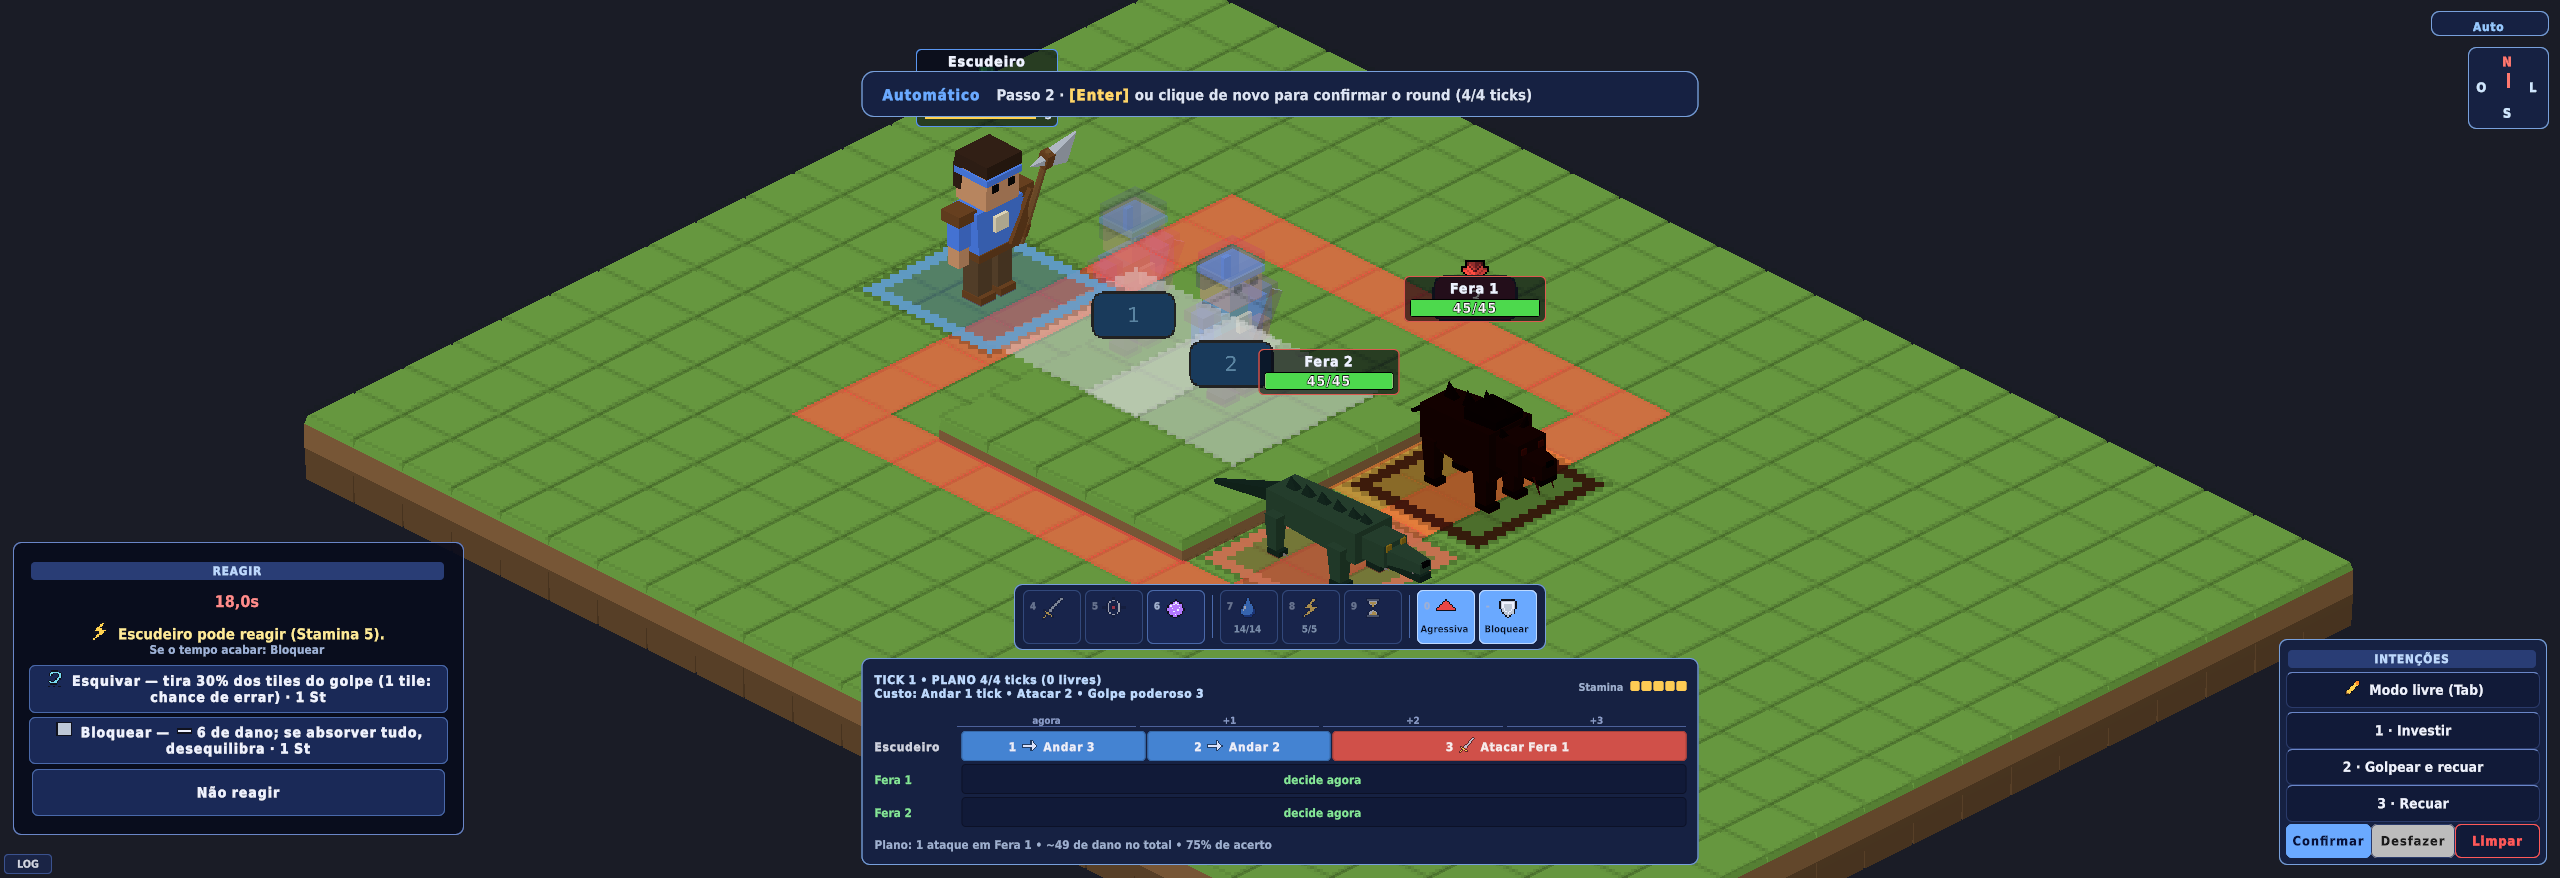
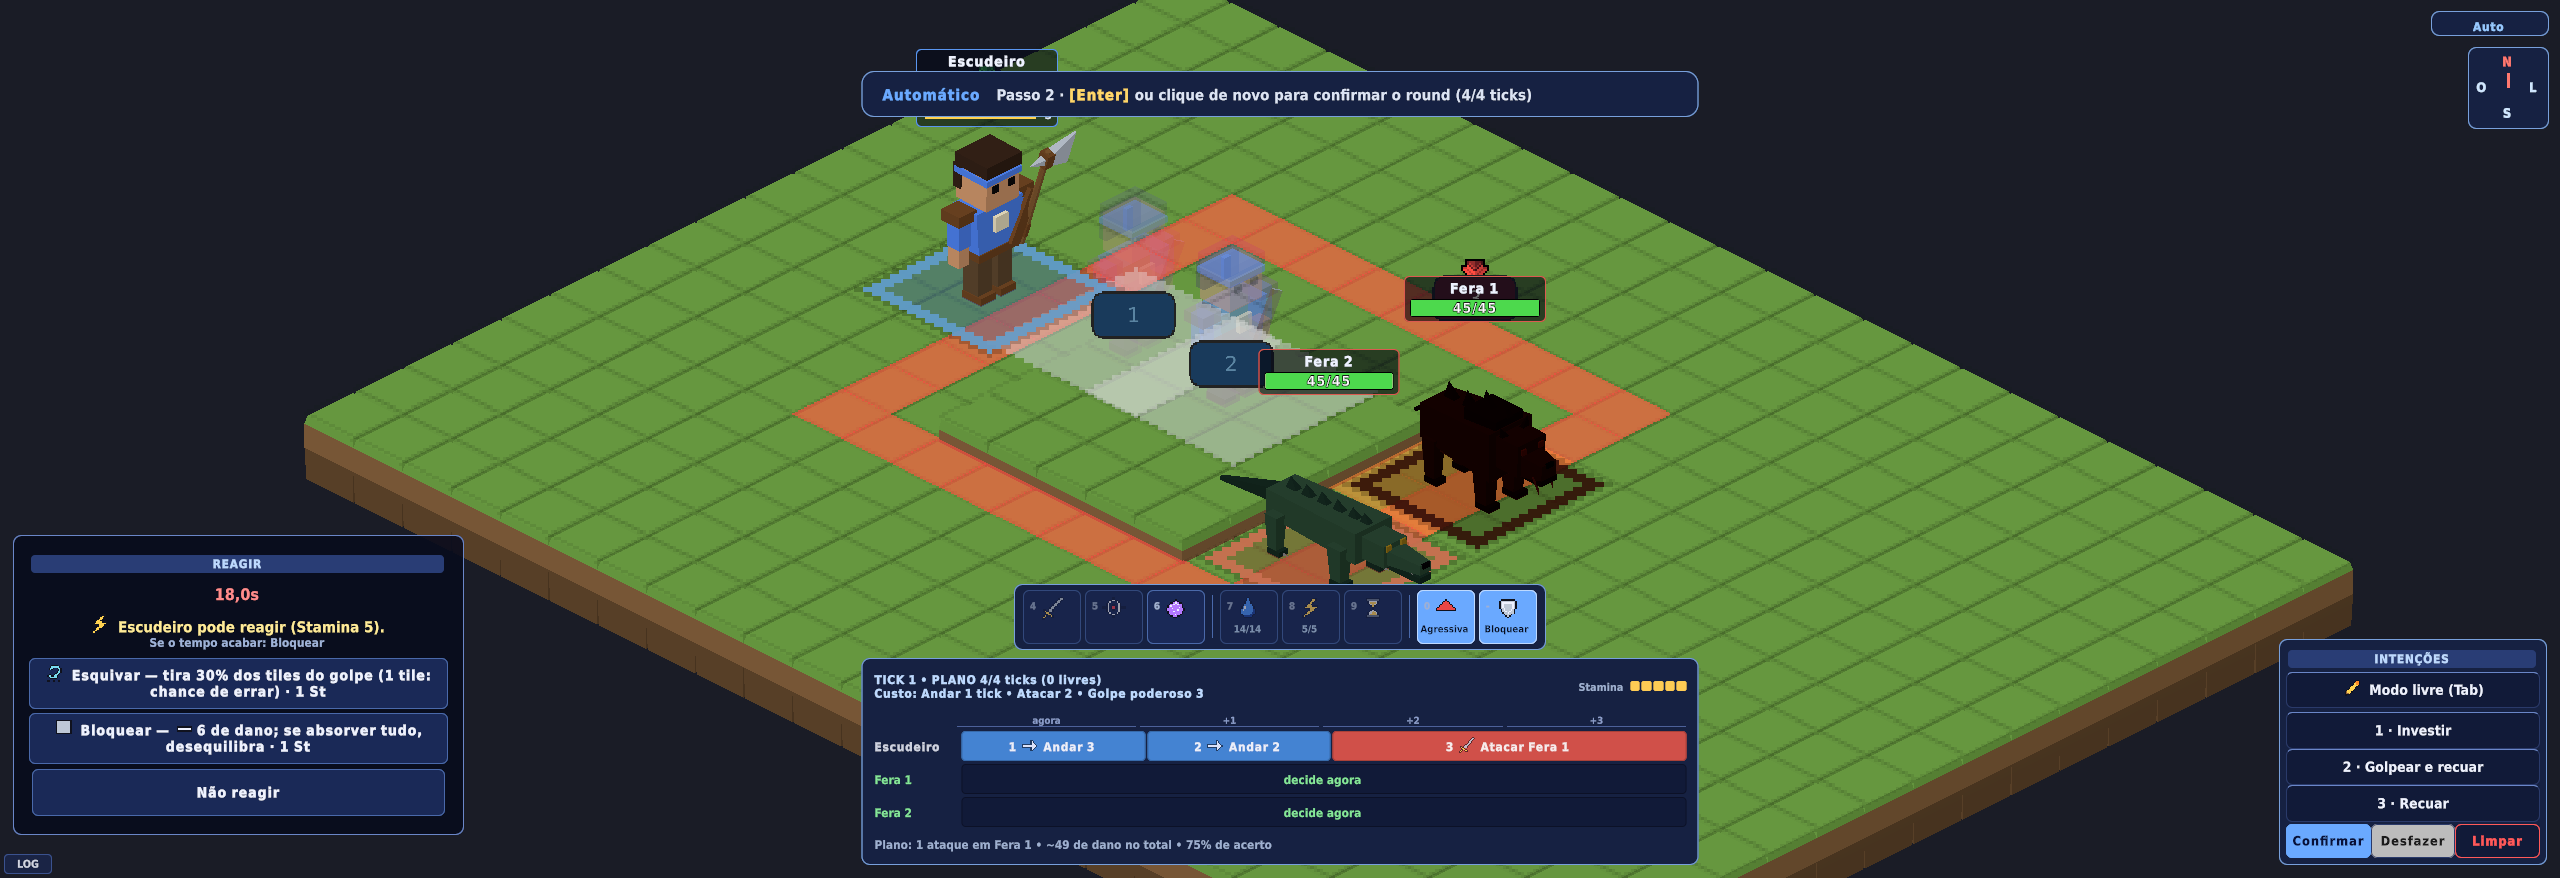
fix(hud): janela de incremento enquadrada — título próprio, botões em duas linhas, custo sem sinal

Changed region(s): [[0.0, 0.7073, 0.1875, 0.861], [0.0, 0.615, 0.1875, 0.6765]]

diff --git a/Assets/Scripts/RoundManager.cs b/Assets/Scripts/RoundManager.cs
@@ -933,12 +933,13 @@ namespace PangeaSkirmish
                 string tgt = q.Attack.TargetUnit != null ? $" em {q.Attack.TargetUnit.unitName}" : "";
                 var opts = new List<(string, System.Action)>();
                 bool canP = mine.CanIncrementNext(0), canA = mine.CanIncrementNext(1);
-                if (canP) opts.Add(($"Golpe poderoso: ~{now} → <b>~{Dmg(true, q.IsAimed)}</b> de dano  <color=#9fb3d9>(−{Unit.IncrementCost(0)} Stamina, +1 tick)</color>", () => Submit(0)));
-                if (canA) opts.Add(($"Mirar: ~{now} → <b>~{Dmg(q.IsBonus, true)}</b> de dano e mais acerto  <color=#9fb3d9>(−{Unit.IncrementCost(1)} Stamina)</color>", () => Submit(1)));
+                string Cost(int st, bool tick) => $"<size=12><color=#9fb3d9>{st} Stamina{(tick ? " · +1 tick" : "")}</color></size>";
+                if (canP) opts.Add(($"<b>Golpe poderoso</b>   ~{now} → <b>~{Dmg(true, q.IsAimed)}</b> de dano\n{Cost(Unit.IncrementCost(0), true)}", () => Submit(0)));
+                if (canA) opts.Add(($"<b>Mirar</b>   ~{now} → <b>~{Dmg(q.IsBonus, true)}</b> de dano, mais acerto\n{Cost(Unit.IncrementCost(1), false)}", () => Submit(1)));
                 if (canP && canA && mine.currentStamina >= Unit.IncrementCost(0) + Unit.IncrementCost(1))
-                    opts.Add(($"Os dois: ~{now} → <b>~{Dmg(true, true)}</b> de dano  <color=#9fb3d9>(−{Unit.IncrementCost(0) + Unit.IncrementCost(1)} Stamina, +1 tick)</color>", () => Submit(0, 1)));
+                    opts.Add(($"<b>Os dois</b>   ~{now} → <b>~{Dmg(true, true)}</b> de dano\n{Cost(Unit.IncrementCost(0) + Unit.IncrementCost(1), true)}", () => Submit(0, 1)));
                 opts.Add(("Não incrementar", () => Submit()));
-                _hud.ShowChoice($"◆ {mine.unitName} vai atacar{tgt}: ~{now} de dano. Incrementar? <size=11><color=#9fb3d9>(Stamina {mine.currentStamina})</color></size>", opts.ToArray());
+                _hud.ShowChoiceTitled("INCREMENTAR", $"{mine.unitName} vai atacar{tgt}: ~{now} de dano.\n<size=12><color=#9fb3d9>Stamina {mine.currentStamina}</color></size>", opts.ToArray());
             }
 
             float guard = seconds + 6f;     // trava de segurança caso o fechamento nunca chegue

diff --git a/Assets/Scripts/BattleHUD.cs b/Assets/Scripts/BattleHUD.cs
@@ -1710,6 +1710,7 @@ namespace PangeaSkirmish
         private System.Action<ReactionKind> _reactionPick;
         public void ShowReactionMenu(Unit reactor, List<ReactionKind> options, float timer, System.Action<ReactionKind> onPick)
         {
+            var ttl = _reactionMenu?.Q<Label>("reaction-title"); if (ttl != null) ttl.text = "REAGIR";
             _reactionPick = onPick;
             if (_actionTip != null) _actionTip.style.display = DisplayStyle.None;
             if (_reactionText != null)
@@ -1746,9 +1747,13 @@ namespace PangeaSkirmish
             else if (_bonusTimerText != null)
                 _bonusTimerText.text = sec > 0f ? sec.ToString("0.0") + "s" : "";
         }
-        public void ShowChoice(string text, params (string label, System.Action onPick)[] options)
+        public void ShowChoice(string text, params (string label, System.Action onPick)[] options) => ShowChoiceTitled("ESCOLHA", text, options);
+
+        /// <summary>Janela de escolha no canto inferior esquerdo, com título próprio (ex.: INCREMENTAR).</summary>
+        public void ShowChoiceTitled(string title, string text, params (string label, System.Action onPick)[] options)
         {
             _reactionPick = null;
+            var ttl = _reactionMenu?.Q<Label>("reaction-title"); if (ttl != null) ttl.text = title;
             if (_reactionText != null) _reactionText.text = text;
             if (_reactionTimer != null) _reactionTimer.text = "";
             if (_reactionButtons != null)
@@ -1760,6 +1765,7 @@ namespace PangeaSkirmish
                     var act = onPick;
                     var btn = new Button(() => { AudioManager.I?.Play(AudioManager.I.sfxUIConfirm); act?.Invoke(); }) { text = label };
                     btn.AddToClassList("pg-button");
+                    btn.AddToClassList("bh-reaction-btn");
                     _reactionButtons.Add(btn);
                 }
             }

diff --git a/Assets/Tests/PlayMode/HudProjectionShot.cs b/Assets/Tests/PlayMode/HudProjectionShot.cs
@@ -131,6 +131,14 @@ public class HudProjectionShot
         yield return Shot("hud-reaction.png");
         hud.HideReactionMenu();
 
+        // Janela de incremento (mesmo lugar da reação), com o dano de agora → depois.
+        hud.ShowChoiceTitled("INCREMENTAR", "Escudeiro vai atacar em Fera 1: ~26 de dano.\n<size=12><color=#9fb3d9>Stamina 5</color></size>",
+            ("<b>Golpe poderoso</b>   ~26 → <b>~39</b> de dano\n<size=12><color=#9fb3d9>2 Stamina · +1 tick</color></size>", null),
+            ("<b>Mirar</b>   ~26 → <b>~31</b> de dano, mais acerto\n<size=12><color=#9fb3d9>1 Stamina</color></size>", null),
+            ("Não incrementar", null));
+        yield return Shot("hud-increment.png");
+        hud.HideReactionMenu();
+
         // Catálogo de magias com a descrição de números reais.
         hud.ToggleSpellMenu();
         for (int i = 0; i < 2; i++) yield return null;
